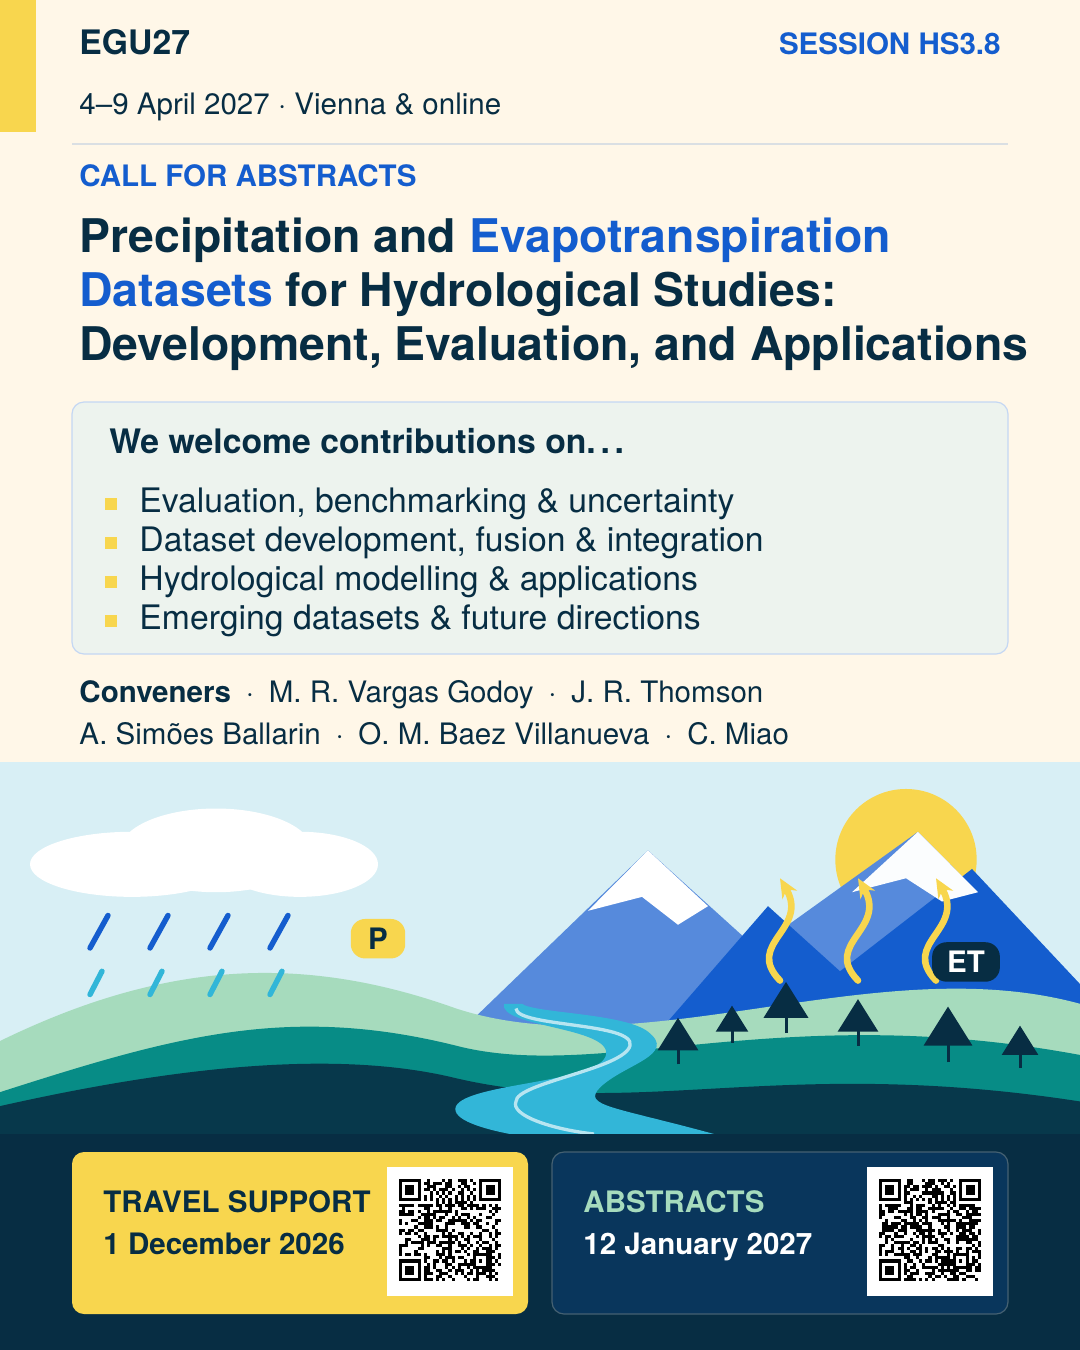
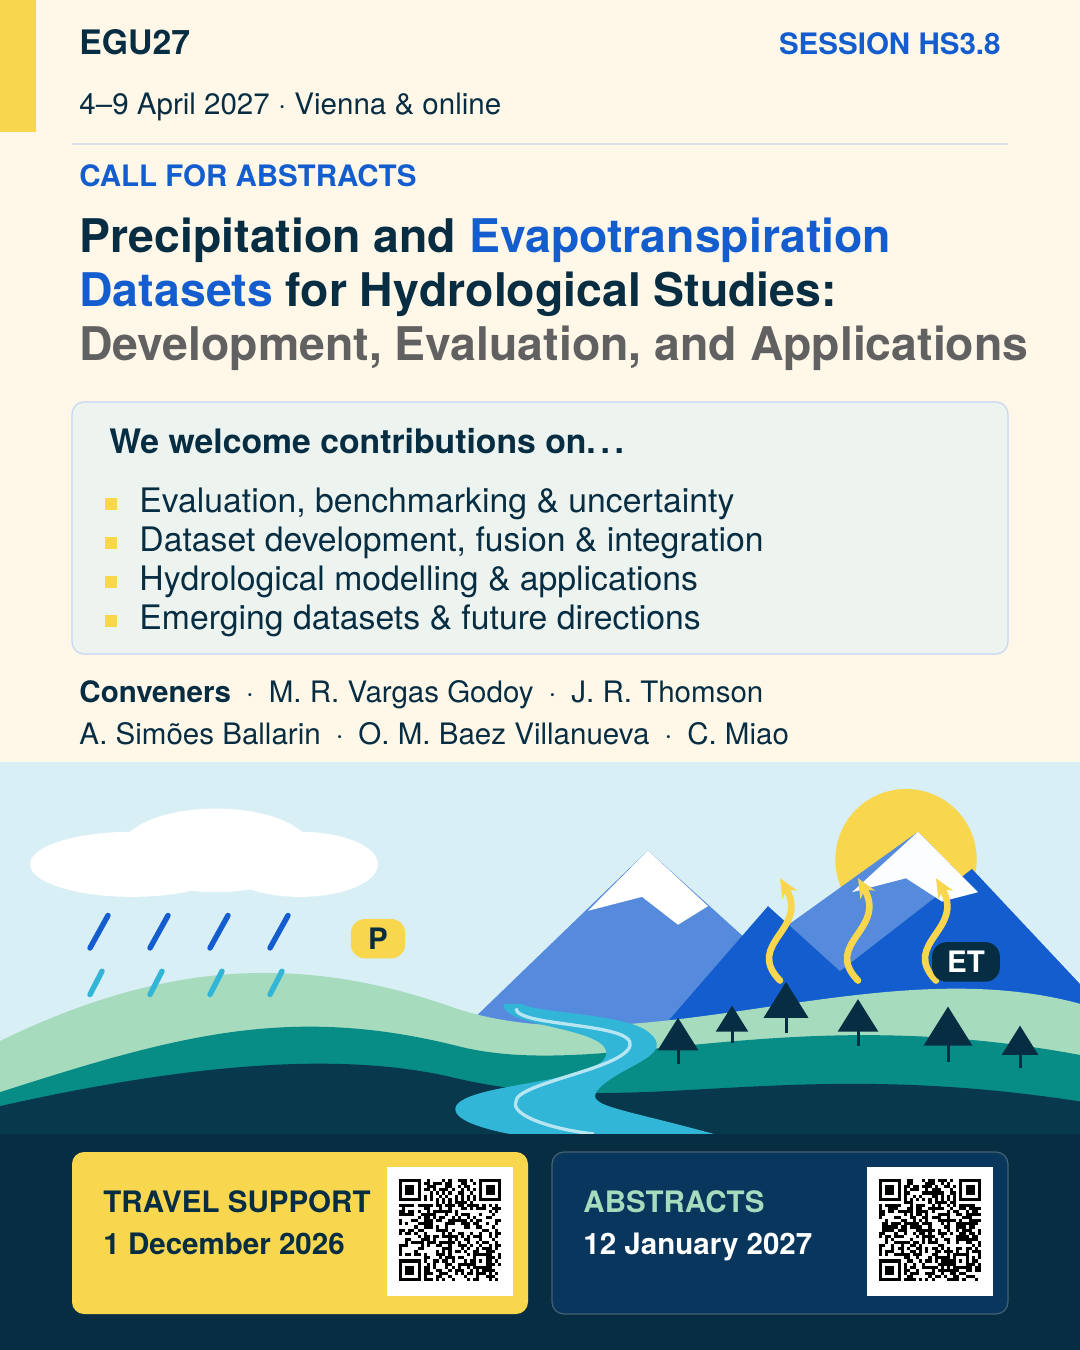
Soften Instagram title continuation to gray
Use a dark gray for Development, Evaluation, and Applications while preserving size and weight. Visually inspected the export and passed packaging validation.

AI assistance: GPT-6 (Codex).

Changed region(s): [[0.3667, 0.2178, 0.9472, 0.28], [0.0611, 0.2489, 0.3361, 0.28]]

diff --git a/site/index.html b/site/index.html
@@ -131,7 +131,7 @@
           <div class="section-heading"><div><p class="eyebrow dark-eyebrow">Spread the word</p><h2 id="downloads-title">Campaign downloads</h2></div><p>Social graphics, ready-to-share copy,<br>and editable LaTeX source.</p></div>
           <div class="downloads-grid">
             <article class="download-card">
-              <a class="asset-preview portrait-preview" href="downloads/egu27-hs38-instagram.png" aria-label="View the Instagram graphic"><img src="downloads/egu27-hs38-instagram.png?v=82d0a080fd8c" width="1080" height="1350" loading="lazy" alt="EGU27 HS3.8 call for abstracts on precipitation and evapotranspiration datasets for hydrological studies. Abstract deadline: 12 January 2027, 13:00 CET."></a>
+              <a class="asset-preview portrait-preview" href="downloads/egu27-hs38-instagram.png" aria-label="View the Instagram graphic"><img src="downloads/egu27-hs38-instagram.png?v=8da5ebb29eb8" width="1080" height="1350" loading="lazy" alt="EGU27 HS3.8 call for abstracts on precipitation and evapotranspiration datasets for hydrological studies. Abstract deadline: 12 January 2027, 13:00 CET."></a>
               <div class="download-card-bottom"><div><h3>Instagram</h3><p>Portrait · 1080 × 1350</p></div><div class="download-links"><a href="downloads/egu27-hs38-instagram.png" download>PNG <span aria-hidden="true">↓</span></a><a href="downloads/egu27-hs38-instagram.pdf" download>PDF <span aria-hidden="true">↓</span></a></div></div>
             </article>
             <article class="download-card">

diff --git a/docs/history.md b/docs/history.md
@@ -52,3 +52,5 @@
 - Integrated “We welcome contributions on…” as a bold heading inside the Instagram topic panel. Reduced the middle typography size from 18 to 16 pt so the heading and topic rows share a smaller size while preserving the three-size limit.
 
 - Matched “Development, Evaluation, and Applications” to the Instagram title’s 22 pt bold typography.
+
+- Softened the Instagram “Development, Evaluation, and Applications” line to dark gray while preserving its title size and bold weight.
